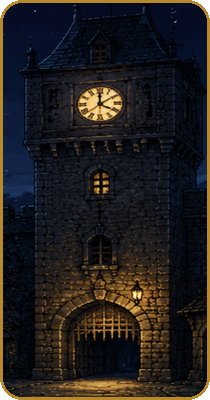
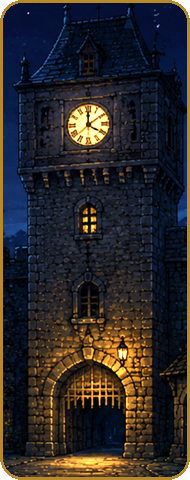
1875: Diagonalband + Turm v2, Hydrant ueber TWINT, Schloss in Preiszeile

diff --git a/index.html b/index.html
@@ -173,9 +173,20 @@ body{
 /* ── Paywall: gesperrte Kacheln ── */
 .karte.gesperrt{cursor:default}
 .karte.gesperrt:hover{transform:none}
-.karte.bald{cursor:default;opacity:.88}
+.karte.bald{cursor:default;opacity:.94;overflow:hidden;position:relative}
 .karte.bald:hover{transform:none}
 .karte.bald .k-titel{letter-spacing:.06em}
+.k-band{
+  position:absolute;top:46%;left:-15%;width:130%;
+  transform:rotate(-16deg);
+  background:rgba(184,137,43,.93);color:#fff;
+  font-family:'JetBrains Mono',monospace;
+  font-size:1.2rem;font-weight:700;letter-spacing:.32em;text-transform:uppercase;
+  text-align:center;padding:.6rem 0;
+  box-shadow:0 4px 14px rgba(0,0,0,.22);
+  pointer-events:none;z-index:2;
+}
+.karte.gesperrt .k-deko{bottom:195px}
 .k-schloss{
   position:absolute;top:12px;right:12px;
   font-size:1rem;line-height:1;
@@ -371,8 +382,8 @@ body{
         </div>
         <div class="k-titel">1875</div>
         <p class="k-text">Manche Wände haben ein Gedächtnis.</p>
-        <span class="k-aktion" style="color:#8a97a6">Coming soon ⌛</span>
-        <img class="k-deko" src="kachel_1875_turm.png?v=1" alt="" style="height:88px;border-radius:6px" onerror="this.style.display=&#39;none&#39;">
+        <div class="k-band">Coming soon</div>
+        <img class="k-deko" src="kachel_1875_turm.png?v=2" alt="" style="height:170px;border-radius:8px" onerror="this.style.display=&#39;none&#39;">
       </div>
 
       <a class="karte" href="slp_karte.html" data-kat="lernen">
@@ -453,14 +464,11 @@ document.querySelectorAll('a.karte').forEach(k => {
   if (!cfg) return;
   k.classList.add('gesperrt');
   k.removeAttribute('href');                       // nicht mehr klickbar
-  const schloss = document.createElement('span');
-  schloss.className = 'k-schloss'; schloss.textContent = '🔒';
-  k.appendChild(schloss);
   const aktion = k.querySelector('.k-aktion');
   const zeile = document.createElement('div');
   zeile.className = 'k-kaufzeile';
   const preis = document.createElement('span');
-  preis.className = 'k-preis'; preis.textContent = cfg.preis;
+  preis.className = 'k-preis'; preis.textContent = '🔒 ' + cfg.preis;
   if (cfg.preisZusatz) preis.title = cfg.preisZusatz;
   const knopf = document.createElement('button');
   knopf.className = 'k-kaufen'; knopf.type = 'button';
